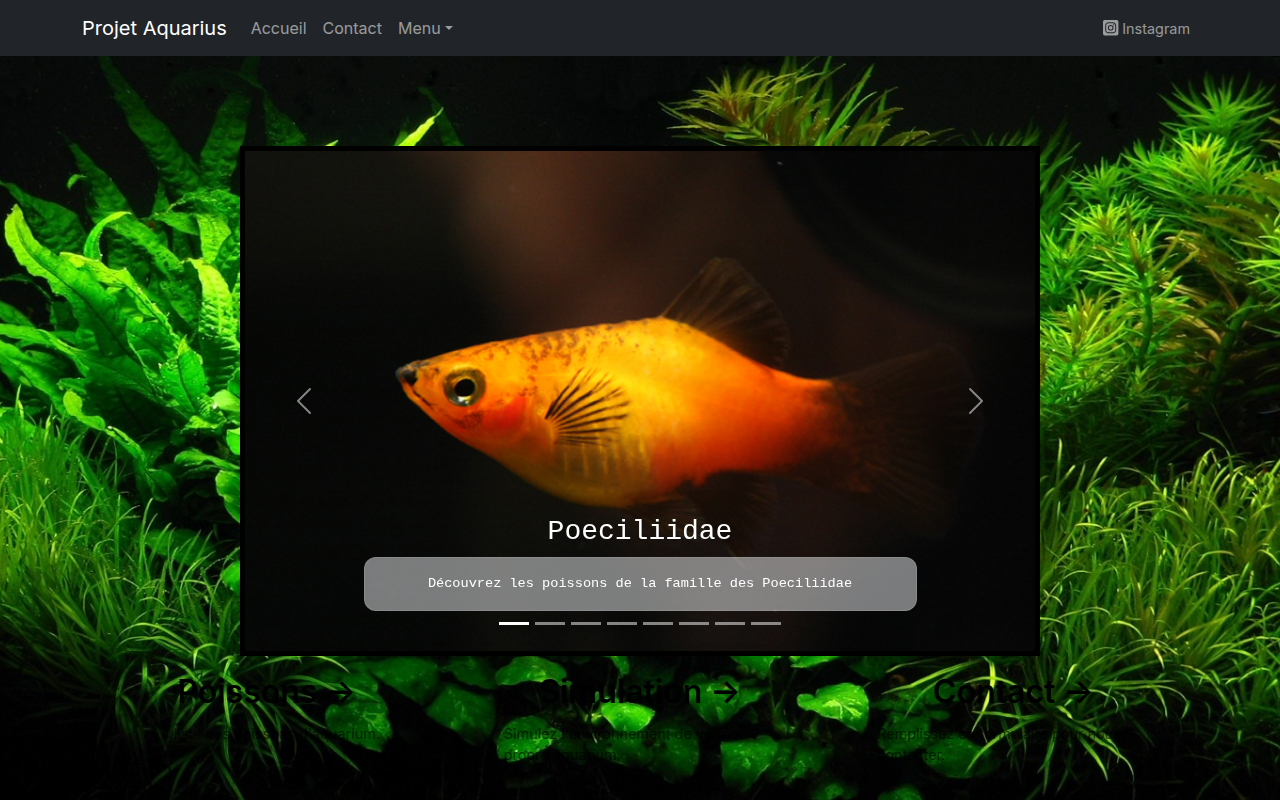
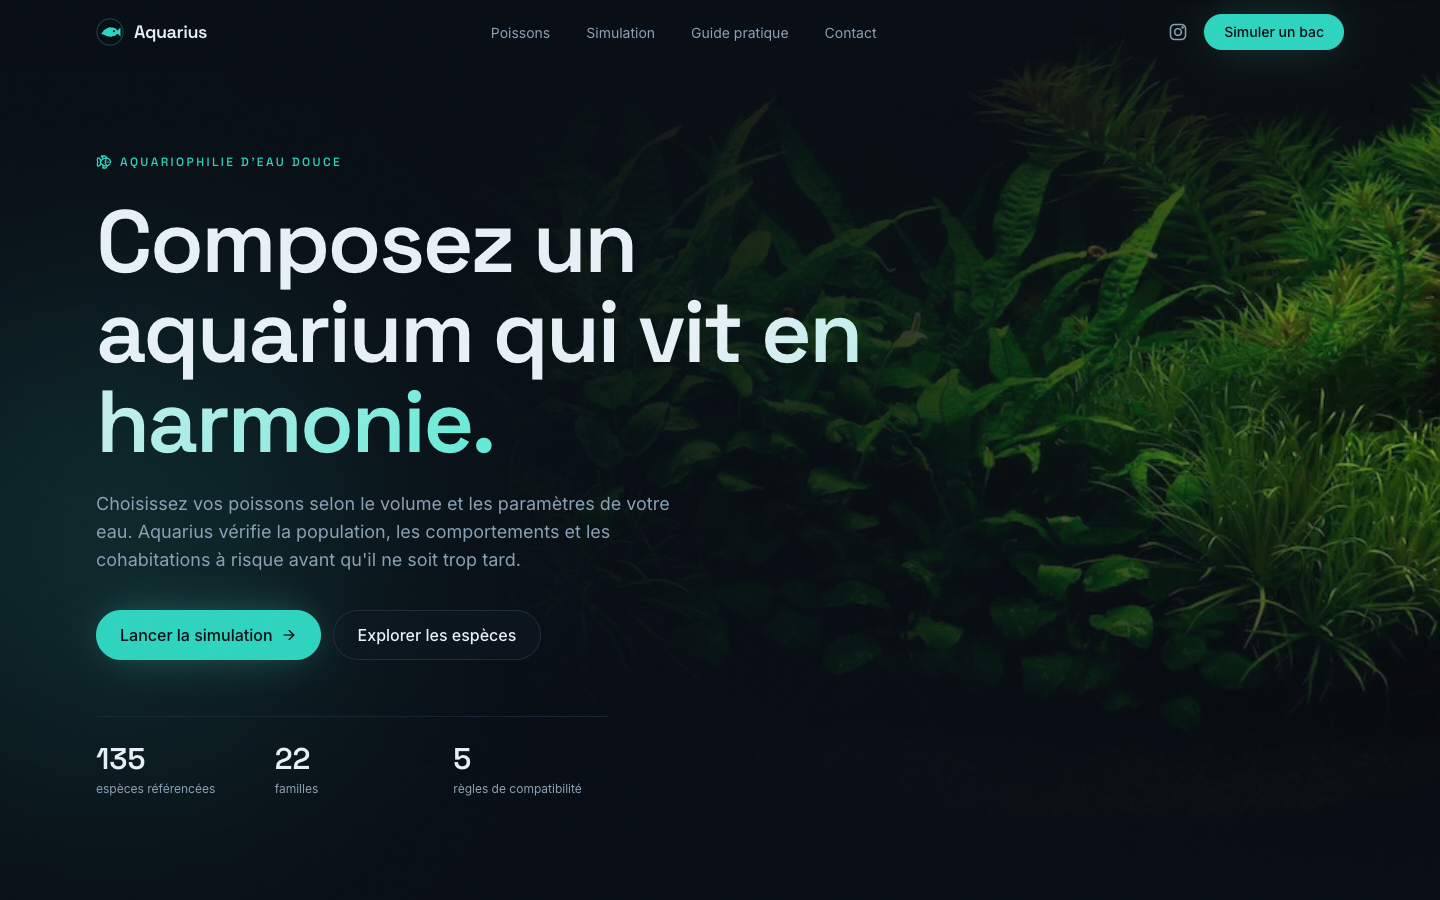
docs: document the UI redesign (ADR 0003, README, changelog, screenshots)
Previous screenshots are kept in docs/screenshots/v0 for comparison.

diff --git a/docs/adr/0003-ui-redesign-tailwind.md b/docs/adr/0003-ui-redesign-tailwind.md
@@ -1,0 +1,49 @@
+# 0003. UI redesign: Tailwind CSS, Framer Motion and a lightweight 3D hero
+Date: 2026-09-27
+Status: Accepted
+
+## Context
+The original UI mixed React-Bootstrap components, Sass modules, per-page wallpaper images and inline
+styles. It looked like a default template, was hard to keep consistent (three icon libraries, two range
+slider libraries, hard-coded pixel sizes, `window.innerWidth` checks for responsiveness) and had
+accessibility gaps (clickable `<p>` and icons without labels, no focus styles).
+
+We want a modern, consistent look that works on mobile first, without changing the business logic of the
+simulator (tracked separately).
+
+## Decision
+- **Tailwind CSS 3** with design tokens in `frontend/tailwind.config.js`: a dark "abyss" palette
+  (`background`, `surface`, `border`, `muted`) and a single teal accent that matches the planted-tank photos.
+  Shared patterns (`.card`, `.btn-primary`, `.input`, `.chip`…) live in `app/globals.css` under `@layer components`.
+- **Typography:** Space Grotesk for headings, Inter for body text, loaded with `next/font`.
+- **Motion:** Framer Motion for scroll reveals (`components/Reveal.js`), run once per element.
+  When the user asks for reduced motion, the duration is set to 0 but the initial/final states stay the
+  same as the server render, which avoids both hydration mismatches and content stuck at `opacity: 0`.
+- **3D accent:** one React Three Fiber scene on the home page (rising bubbles, a single `InstancedMesh`).
+  It is loaded with `next/dynamic` (`ssr: false`), mounted after hydration, capped at `dpr` 1.5,
+  paused when off-screen, skipped with reduced motion, and skipped/caught when WebGL is unavailable.
+- **Icons:** `lucide-react` only, pinned below v1: v1 creates a React context at import time, which breaks
+  Server Components on Next.js 13.4.
+- **Components:** shared UI in `frontend/components/` (header, footer, page header, fish card, gallery,
+  range bar, pagination); routes renamed to lowercase (`/simulation`, `/contact`) to match the links and
+  work on case-sensitive file systems.
+
+## Alternatives considered
+- **Keep React-Bootstrap and restyle it:** less churn, but fighting Bootstrap defaults to get a custom
+  look, and it keeps a large CSS bundle.
+- **CSS Modules / Sass only:** no new dependency, but no design tokens or utility classes; slower to keep
+  spacing and colours consistent across pages.
+- **shadcn/ui + Radix:** good accessible primitives, but it targets TypeScript and a newer Next.js/React;
+  worth revisiting after the framework upgrade.
+- **GSAP + drei for motion/3D:** more powerful than needed for simple reveals and one scene; adds weight.
+
+## Consequences
+- ✅ One consistent visual language, responsive by default, visible focus states and labelled controls.
+- ✅ 11 dependencies removed (Bootstrap, React-Bootstrap, Font Awesome ×4, react-icons,
+  react-bootstrap-icons, two sliders, Sass); 8 added (framer-motion, three, @react-three/fiber, lucide-react,
+  clsx, and the tailwindcss / postcss / autoprefixer dev toolchain).
+- ✅ The 3D scene is decorative only: no WebGL, reduced motion or a render error simply hides it.
+- ❌ First Load JS grows from ~78–114 kB to ~114–142 kB per route (Framer Motion, lucide); the three.js
+  chunk is only loaded on the home page, after hydration.
+- ❌ Dark theme only for now.
+- ⚠ Still on Next.js 13.4 / JavaScript: upgrading Next.js and moving to TypeScript are separate changes.

diff --git a/README.md b/README.md
@@ -13,7 +13,9 @@
 
 - **Fish catalogue** — 135 species with water parameters (pH, GH, temperature), size, behaviour, lifespan and photos.
 - **Instant search** by common name, scientific name, family, genus or behaviour, plus a filter by family.
-- **Family carousel** on the home page linking to each family's fish.
+- **Modern, responsive UI** — dark theme with Tailwind CSS, scroll animations and a lightweight 3D hero,
+  respecting *reduced motion* and working without WebGL.
+- **Family showcase** on the home page linking to each family's fish.
 - **Tank simulator** — enter your tank volume, pH, GH and temperature, build a basket of fish and get warnings on
   overpopulation, under-sized schools, aggressive/peaceful cohabitation and predation.
 - **Contact form** sent through EmailJS.
@@ -45,7 +47,8 @@ The data is maintained in an Excel workbook and loaded with `make import`. See t
 
 ## Tech stack
 
-- **Front end:** Next.js 13, React 18, React-Bootstrap, Sass, SWR, react-hook-form, EmailJS
+- **Front end:** Next.js 13, React 18, Tailwind CSS, Framer Motion, React Three Fiber, lucide-react, SWR,
+  react-hook-form, EmailJS
 - **Back end:** Python 3.11, Flask, SQLAlchemy 2, Alembic, openpyxl
 - **Quality:** pytest + pytest-cov, ruff, ESLint, GitHub Actions
 
@@ -90,6 +93,7 @@ CI runs the same checks on every pull request and on pushes to `main`.
 
 - [0001 — Next.js front end + Flask API](docs/adr/0001-tech-stack.md)
 - [0002 — SQL database fed from an Excel workbook, SQLite by default](docs/adr/0002-database-and-excel-import.md)
+- [0003 — UI redesign: Tailwind CSS, Framer Motion and a lightweight 3D hero](docs/adr/0003-ui-redesign-tailwind.md)
 
 ## Roadmap & known limitations
 
@@ -97,7 +101,7 @@ CI runs the same checks on every pull request and on pushes to `main`.
 - [ ] "Guide pratique" page (`/cours`) is a placeholder
 - [ ] Import the `Plantes` sheet (plants) from the workbook
 - [ ] Front-end tests (validation rules, Cypress end-to-end)
-- The UI is in French only.
+- The UI is in French only, dark theme only.
 - Compatibility rules run in the browser and are indicative, not expert advice.
 
 ## Credits & license

diff --git a/CHANGELOG.md b/CHANGELOG.md
@@ -6,16 +6,27 @@ The format follows [Keep a Changelog](https://keepachangelog.com/en/1.1.0/).
 ## [Unreleased]
 
 ### Added
+- Accessibility: labelled icon buttons, visible focus rings, `prefers-reduced-motion` support.
 - One-command developer workflow: `make dev`, `make test`, `make lint`, `make build`, `make import`.
 - Backend test suite (pytest, 11 tests) and GitHub Actions CI (ruff, pytest with coverage, ESLint, Next.js build).
 - Architecture decision records in `docs/adr/`, PR and issue templates, MIT licence.
 - `.env.example` for the front end; backend config driven by `AQUARIUS_DSN` / `AQUARIUS_EXCEL_FILE`.
 
 ### Changed
+- **UI redesign** ([ADR 0003](docs/adr/0003-ui-redesign-tailwind.md)): Tailwind CSS design system (dark theme,
+  teal accent, Space Grotesk / Inter), new header with mobile menu, footer, home page with a 3D bubbles hero,
+  "how it works" steps and family showcase, fish cards with search and family chips, fish detail page with
+  photo gallery and water-parameter ranges, restyled simulator (water form, verdict, tank load bar) and
+  contact form with sending status, "Guide pratique" preview and a custom 404 page.
+- Routes renamed to lowercase: `/simulation`, `/contact`, matching the navigation links.
+- Replaced React-Bootstrap, Sass, Font Awesome, react-icons and the range sliders with Tailwind CSS,
+  Framer Motion, React Three Fiber and lucide-react.
 - SQLite is now the default database, so a fresh clone runs without a MySQL server.
 - README rewritten in English with architecture diagram and quick start.
 
 ### Fixed
+- Simulator: the external hot-linked images are replaced by local ones; the unused pH range slider and
+  debug logs are removed.
 - Fish detail page crashed on a freshly imported database: the Excel import now fills `poisson.images`.
 - Excel import tested the *Points* column instead of *Courant* before setting the water current.
 - `/Simulation/starting` failed to build on case-sensitive file systems (`results.js` was in `app/simulation/`).

diff --git a/frontend/README.md b/frontend/README.md
@@ -1,3 +1,4 @@
 # Aquarius — front end
 
-Next.js 13 (App Router) application. See the [root README](../README.md) for setup: `make dev` from the repository root.
+Next.js 13 (App Router) application styled with Tailwind CSS (tokens in `tailwind.config.js`, shared
+classes in `app/globals.css`); reusable UI lives in `components/`. See the [root README](../README.md) for setup: `make dev` from the repository root.

diff --git a/docs/adr/0001-tech-stack.md b/docs/adr/0001-tech-stack.md
@@ -1,6 +1,6 @@
 # 0001. Next.js front end + Flask API
 Date: 2026-09-27
-Status: Accepted
+Status: Accepted (UI library choice superseded by [0003](0003-ui-redesign-tailwind.md))
 
 > Documented retroactively: the decision was taken when the project started (2023).
 
